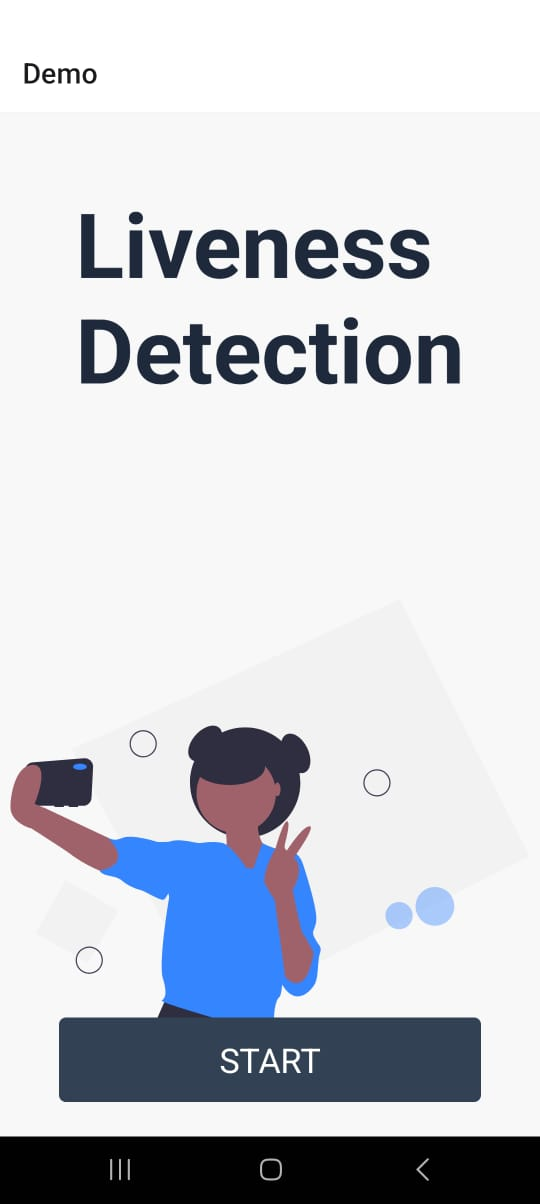
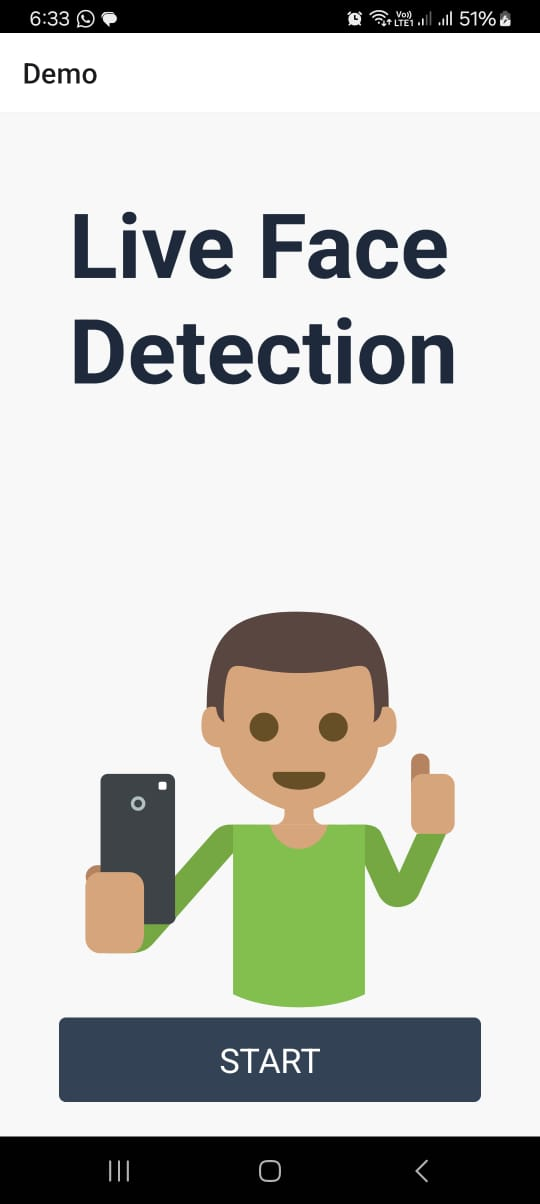
projects updated

diff --git a/src/data/projects.ts b/src/data/projects.ts
@@ -54,7 +54,7 @@ export const PROJECTS_CARD: ProjectCardProps[] = [
   },
   {
     name: "Nagad Pulse",
-    favicon: "/images/projects/logos/kanban.ico",
+    favicon: "/images/projects/logos/tmr.webp",
     imageUrl: ["/images/projects/nagad.webp", "/images/projects/nagad-2.webp"],
     description:
       "Worked as a React Native developer on this project and Developed four React Native mobile applications for handling Overall (TM) operations for Nagad under the HawkEyes Digital Monitoring LTD.",
@@ -86,12 +86,12 @@ export const PROJECTS_CARD: ProjectCardProps[] = [
     // liveWebsiteHref: "https://portal.testapp.io/apps/install/Pe00BXNZ8WVr7",
   },
   {
-    name: "Liveness Detection App",
+    name: "Live Face Detection App",
     favicon: "/images/projects/logos/face-scanner.png",
     imageUrl: ["/images/projects/live-0.jpeg", "/images/projects/live-1.jpeg"],
     description:
       "Detect face and liveness of the face using React Native, Expo and MLKit.",
-    sourceCodeHref: "https://github.com/minhaz19/eye-blinking-live-detection",
+    sourceCodeHref: "https://github.com/minhaz19/Live-Face-Detection",
     liveWebsiteHref: "https://portal.testapp.io/apps/install/Pe00BXNZ8WVr7",
   },
   {
